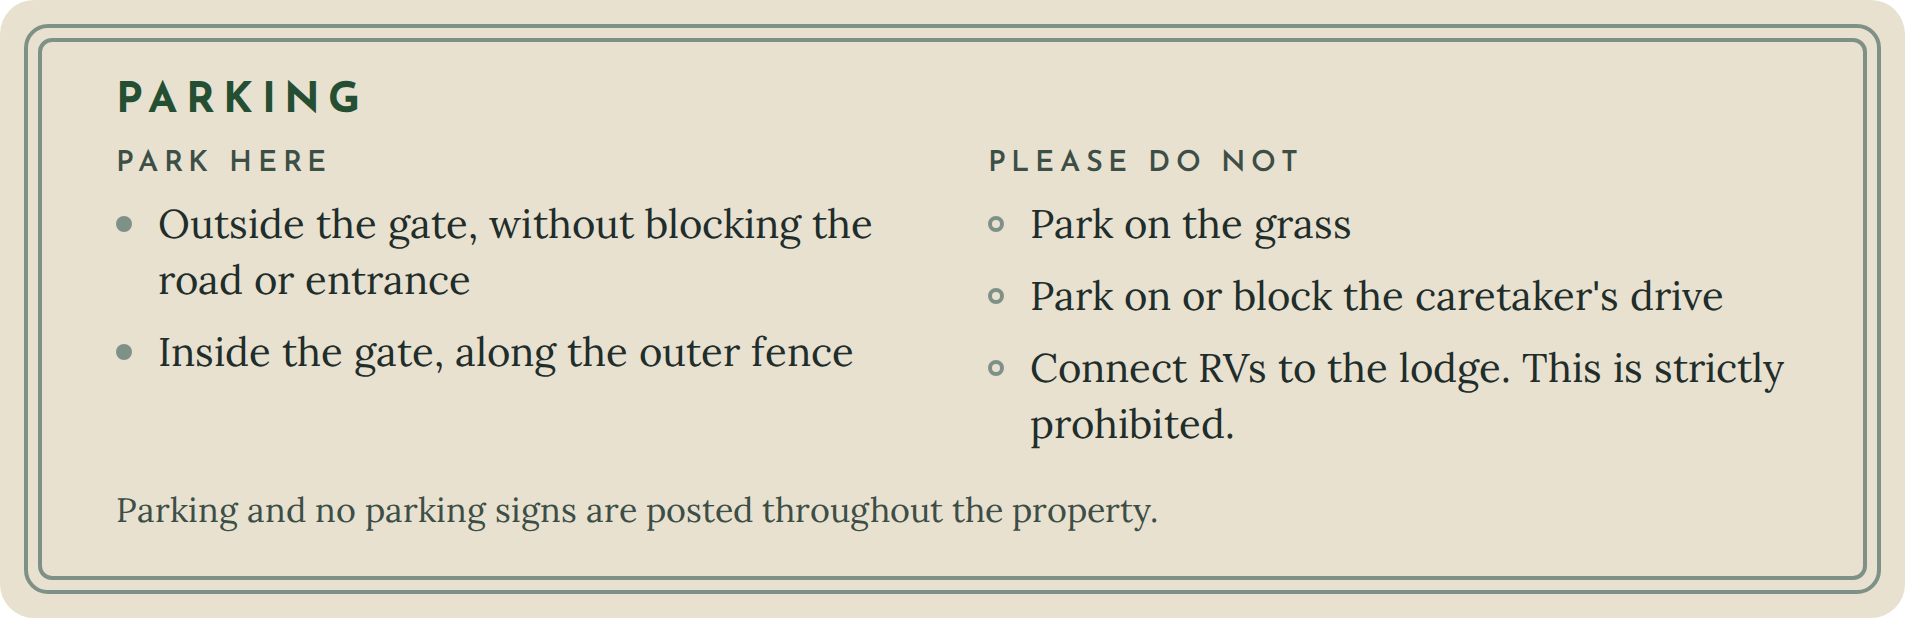
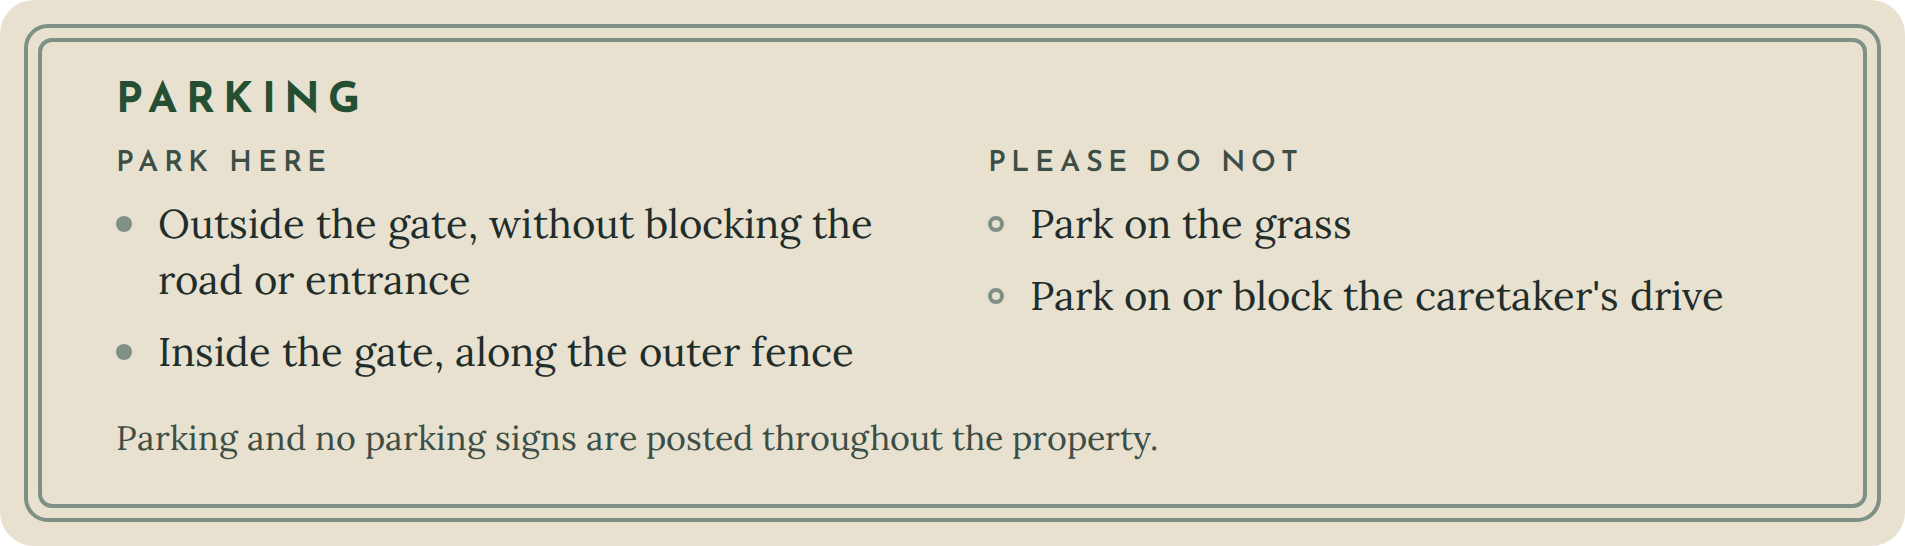
deploy: 59e9ad95c6d4bac187317ffca2ec67042cc39d63

diff --git a/assets/events-data.js b/assets/events-data.js
@@ -82,7 +82,6 @@ window.WEDDING_GOOD_TO_KNOW = {
   parkNot: [
     "Park on the grass",
     "Park on or block the caretaker's drive",
-    "Connect RVs to the lodge. This is strictly prohibited.",
   ],
   parkNote: "Parking and no parking signs are posted throughout the property.",
   weather:
